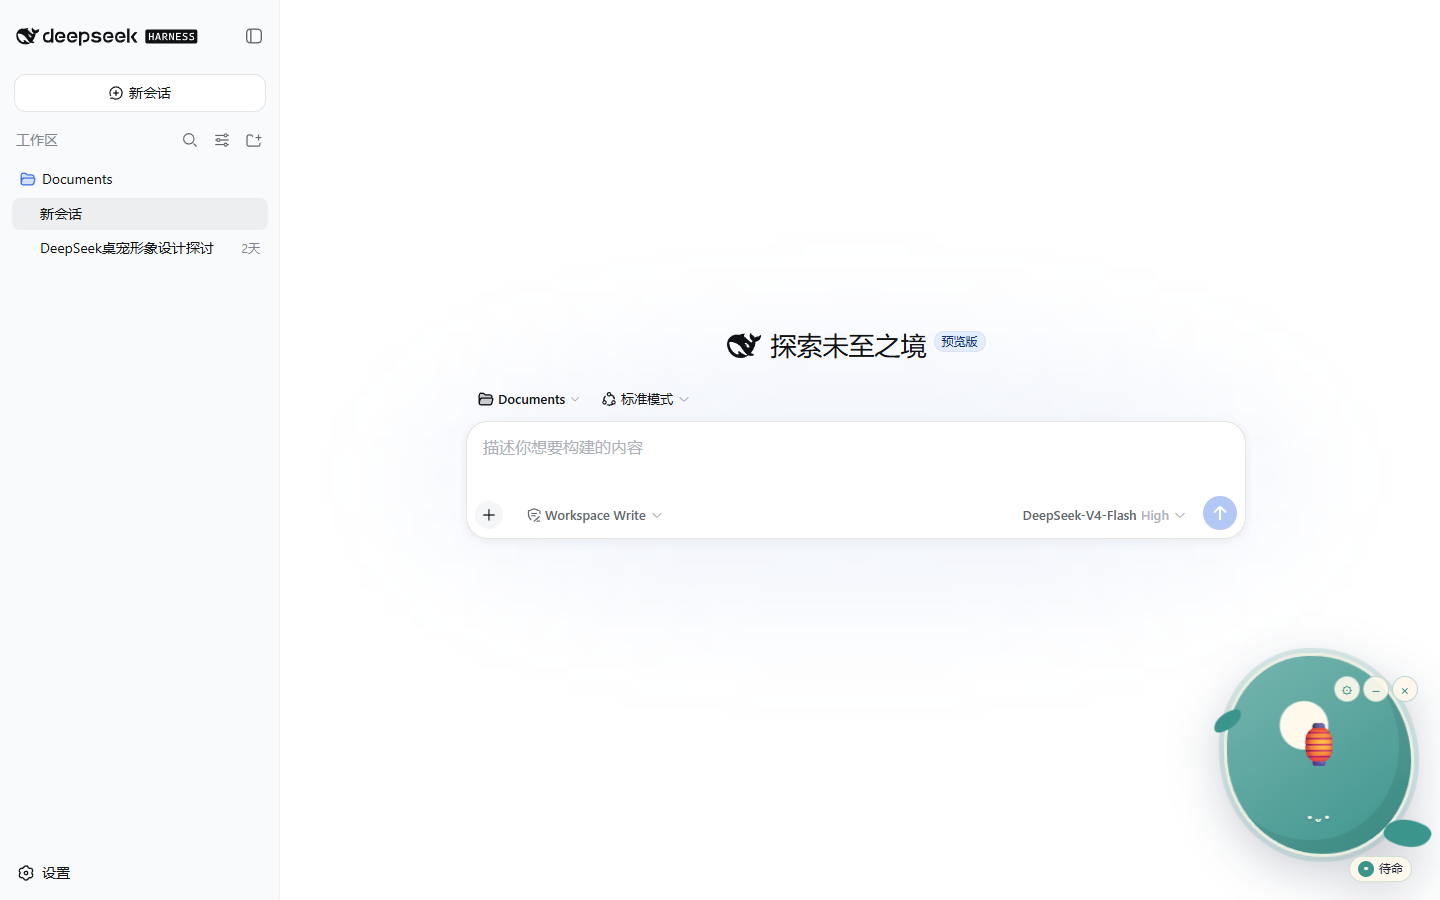
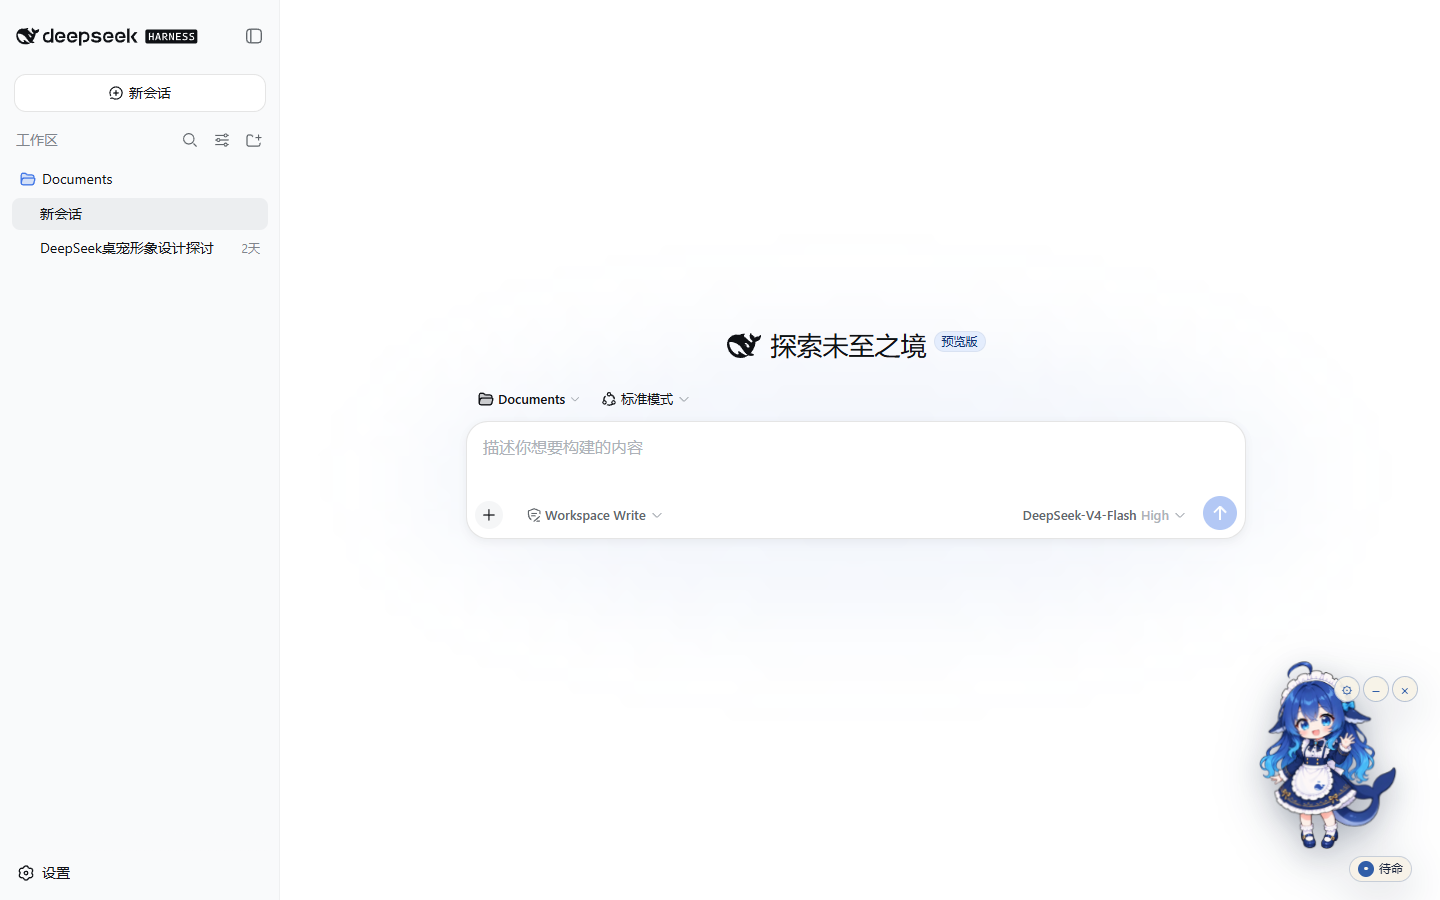
docs: show Jingyun in real-profile previews

Changed region(s): [[0.8438, 0.7156, 1.0, 0.9644]]

diff --git a/README.md b/README.md
@@ -4,7 +4,7 @@ English | [简体中文](README.zh-CN.md)
 
 An early, privacy-aware desktop-companion engine for DeepSeek Harness. It is deliberately **not** another balance or cost meter. It turns official session facts into useful ambient feedback and leaves character art in independently installable packs.
 
-> Status: public core preview. The runtime, privacy boundary, state machine, pack schema and bundle manifest are testable. No character art is bundled, and npm publishing remains disabled while real-profile QA continues.
+> Status: public core preview. The runtime, privacy boundary, state machine, pack schema and bundle manifest are testable. No redistributable character pack is bundled with the core package, and npm publishing remains disabled while real-profile QA continues.
 
 ## Preview
 
@@ -14,7 +14,7 @@ The companion is enabled in a real local DSH profile. Its state is visible at th
 
 ![Chinese companion controls in the draggable settings panel](docs/images/companion-settings.png)
 
-The settings panel is draggable and exposes reply preview, hourly variation, local speech controls, voice selection and local pet upload. The screenshots use the art-free built-in placeholder; independently licensed character packs are installed separately.
+The settings panel is draggable and exposes reply preview, hourly variation, local speech controls, voice selection and local pet upload. The screenshots show the locally installed Jingyun whale-maid pack; the selected character and outfit are visible in the panel.
 
 ## What is different
 
@@ -31,7 +31,7 @@ The settings panel is draggable and exposes reply preview, hourly variation, loc
 
 ## Bundled demo metadata
 
-The public core includes one art-free metadata placeholder, **星汐 / 星潮鲸灵**, so the picker and outfit settings remain testable. It intentionally renders as a glyph until a user uploads a local image or installs a separately licensed character pack. No whale-maid or third-party character images are distributed by this repository.
+The public core includes one art-free metadata placeholder, **星汐 / 星潮鲸灵**, so the picker and outfit settings remain testable. It intentionally renders as a glyph until a user uploads a local image or installs a character pack. The preview screenshots show a locally installed Jingyun pack; the core runtime and npm package do not bundle its standalone source assets.
 
 ## Pack model
 
@@ -77,7 +77,7 @@ The included `cordis.patch.yml` uses DSH's profile-bundle patch mechanism. This 
 ## Public-repository boundary
 
 - MIT covers the source code in this repository.
-- No character artwork is included in the repository or package files.
+- The core runtime and npm package do not ship standalone character-art source assets; documentation screenshots show local evaluation only.
 - User-uploaded pets stay in that user's browser.
 - External pack authors are responsible for declaring compatible licenses and keeping provenance records.
 

diff --git a/README.zh-CN.md b/README.zh-CN.md
@@ -4,7 +4,7 @@
 
 一个面向 DeepSeek Harness 的早期桌宠引擎，强调隐私边界与可扩展角色包。它并不是又一个余额或费用监控器，而是把 DSH 提供的会话事实转化为有用的环境反馈，同时把角色美术拆分为可独立安装的资源包。
 
-> 当前状态：公开核心预览版。运行时、隐私边界、状态机、角色包规范与打包清单均可测试。仓库不内置角色美术；在真实 profile 验收完成前，npm 发布仍保持关闭。
+> 当前状态：公开核心预览版。运行时、隐私边界、状态机、角色包规范与打包清单均可测试。核心包不捆绑可再分发角色包；在真实 profile 验收完成前，npm 发布仍保持关闭。
 
 ## 效果预览
 
@@ -14,7 +14,7 @@
 
 ![可拖动设置面板中的中文桌宠控制项](docs/images/companion-settings.png)
 
-设置面板可以拖动，并提供回复预览、每小时变化、本地朗读、语音选择与本地桌宠上传。截图使用不含外部美术的内置占位角色；独立授权的角色包需另行安装。
+设置面板可以拖动，并提供回复预览、每小时变化、本地朗读、语音选择与本地桌宠上传。截图展示本地安装的鲸云娘角色包，面板中可以直接看到当前角色与服装。
 
 ## 与普通桌宠的区别
 
@@ -31,7 +31,7 @@
 
 ## 内置演示元数据
 
-公开核心只包含一个不带美术的元数据占位角色 **星汐 / 星潮鲸灵**，用于测试角色选择器和服装设置。用户上传本地图片或安装单独授权的角色包之前，它会以图形占位符显示。本仓库不会分发鲸鱼女仆或第三方角色图片。
+公开核心只包含一个不带美术的元数据占位角色 **星汐 / 星潮鲸灵**，用于测试角色选择器和服装设置。用户上传本地图片或安装角色包之前，它会以图形占位符显示。预览截图展示本地安装的鲸云娘角色包；核心运行时与 npm 包不捆绑其独立原始素材。
 
 ## 角色包模型
 
@@ -77,7 +77,7 @@ dsh plugin --profile web add link:/absolute/path/to/dsh-companion-studio
 ## 公共仓库边界
 
 - MIT 许可证覆盖本仓库源代码。
-- 仓库与软件包不包含角色美术。
+- 核心运行时与 npm 包不分发独立角色原始素材；文档截图只展示本地评估效果。
 - 用户上传的桌宠只保存在该用户的浏览器中。
 - 外部角色包作者需要声明兼容许可证并保存素材来源记录。
 
